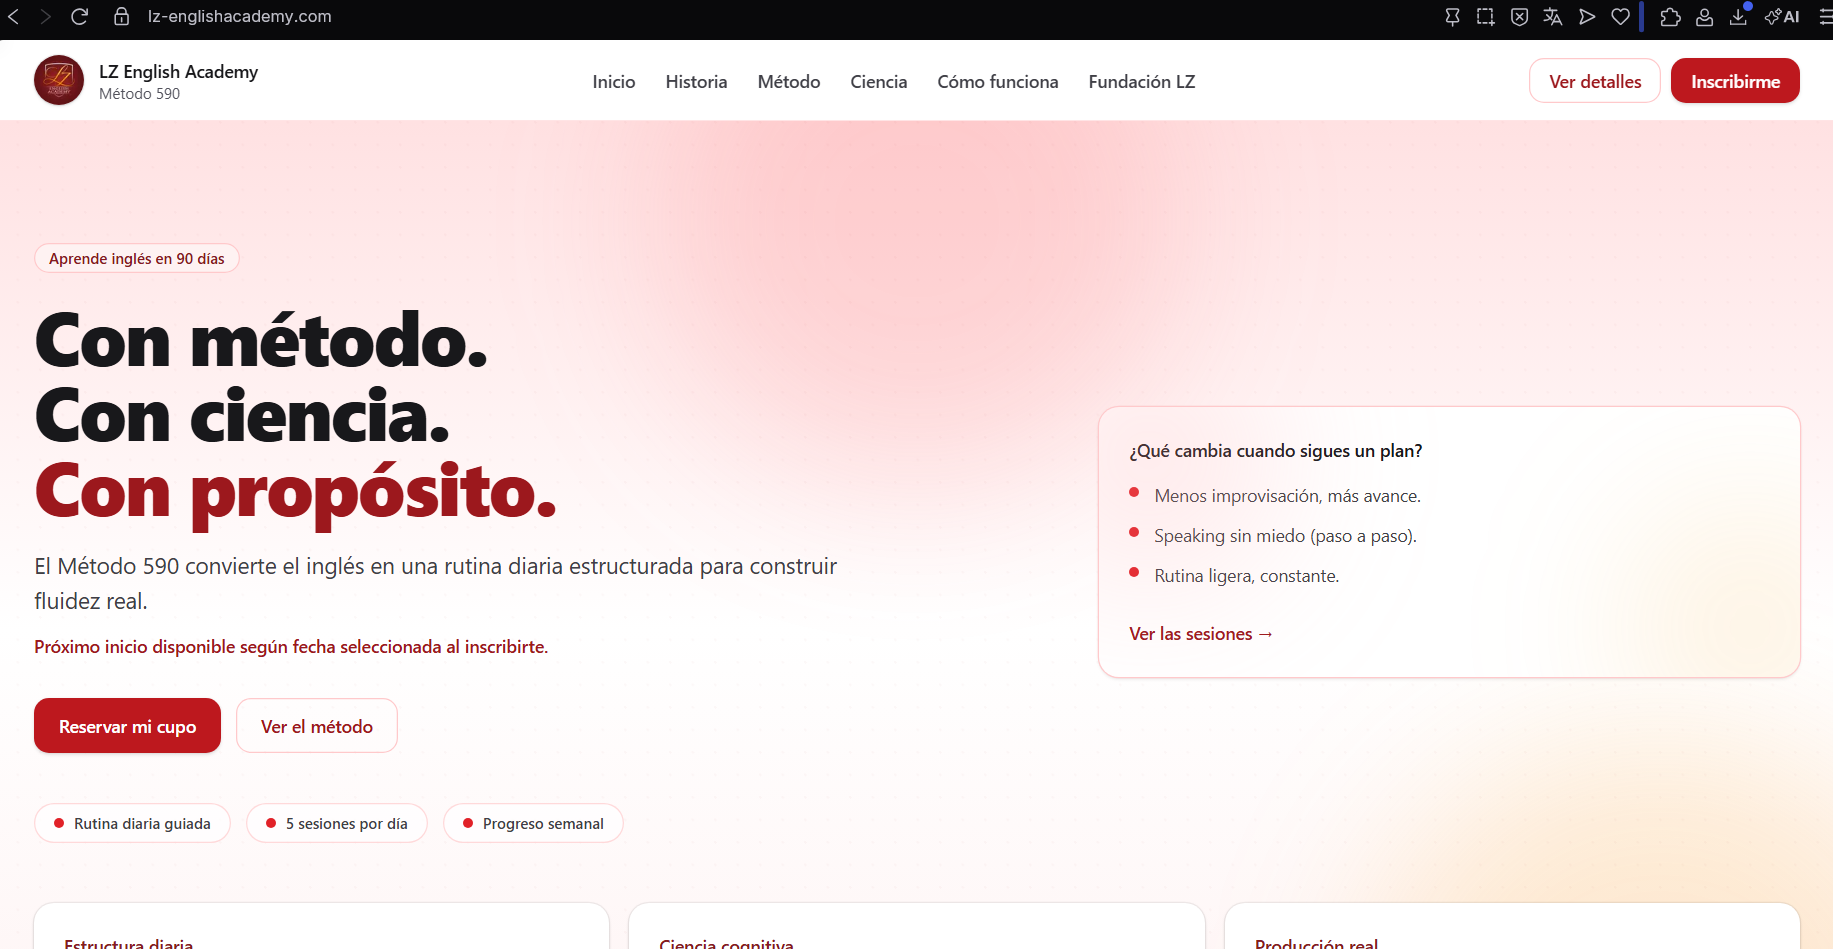
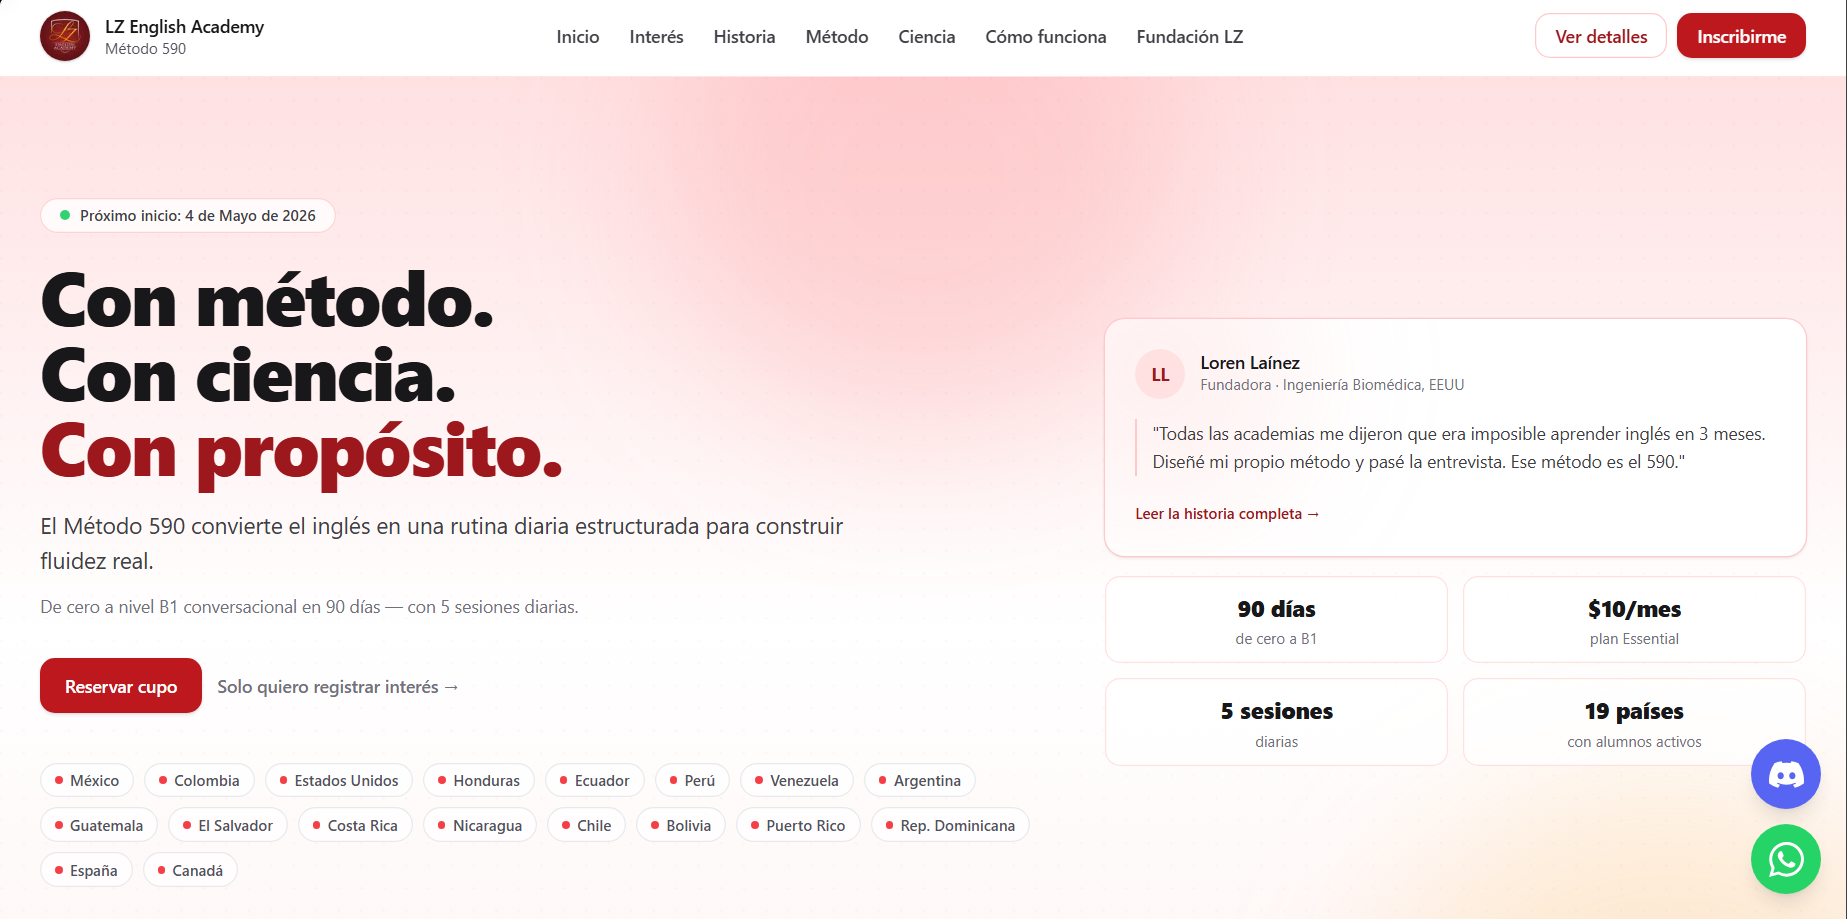
new proyects and basic SEO

diff --git a/src/pages/projects.jsx b/src/pages/projects.jsx
@@ -3,43 +3,31 @@ import { useAppContext } from "../context/AppContext";
 const projects = [
   {
     title: {
-      en: "MovelyQ: Logistics & Asset Rental Ecosystem",
-      es: "MovelyQ: Ecosistema de Logística y Alquiler de Activos",
+      en: "Splitwo: Expense Splitting Web App",
+      es: "Splitwo: Aplicación Web para Dividir Gastos",
     },
     description: {
-      en: "Developed a specialized rental platform focusing on SEO optimization and landing page lead generation. Engineered a high-performance architecture for pre-launch registration, ensuring scalable data handling for future market entry.",
-      es: "Desarrollé una plataforma de alquiler especializada enfocada en la optimización SEO y generación de leads. Diseñé una arquitectura de alto rendimiento para el registro de pre-lanzamiento, asegurando un manejo de datos escalable.",
+      en: "Built the full-stack web application for Splitwo, a platform that simplifies shared expense management between groups. Focused on real-time balance tracking, intuitive UX flows, and secure transaction handling to streamline how people split bills and settle debts.",
+      es: "Desarrollé la aplicación web full-stack de Splitwo, una plataforma que simplifica la gestión de gastos compartidos entre grupos. Me enfoqué en el seguimiento de balances en tiempo real, flujos de UX intuitivos y manejo seguro de transacciones para facilitar cómo las personas dividen cuentas y saldan deudas.",
     },
     year: "2026",
-    image: "/projects/movelyq.png",
-    link: "https://pre-register.movelyq.com",
+    image: "/projects/splitwo_app.png",
+    link: "https://app.splitwo.com",
+    tech: ["React", "Node.js", "PostgreSQL", "Tailwind CSS", "Stripe"],
   },
   {
     title: {
-      en: "FynQ: FinTech Asset & Investment Management",
-      es: "FynQ: Gestión de Activos Financieros e Inversiones",
+      en: "Splitwo: Landing Page & Marketing Website",
+      es: "Splitwo: Landing Page y Sitio Web de Marketing",
     },
     description: {
-      en: "Architected a digital finance ecosystem focused on secure asset tracking and real-time data visualization. Implemented a mobile-first approach with optimized API communication to ensure financial data integrity and backend stability.",
-      es: "Arquitecté un ecosistema financiero digital enfocado en el seguimiento seguro de activos y visualización de datos en tiempo real. Implementé un enfoque mobile-first con comunicación API optimizada para asegurar la integridad de los datos.",
+      en: "Designed and developed the marketing website for Splitwo, focused on conversion optimization and clear product communication. Built with performance and SEO best practices to drive user acquisition and effectively present the app's value proposition.",
+      es: "Diseñé y desarrollé el sitio web de marketing de Splitwo, enfocado en la optimización de conversiones y comunicación clara del producto. Construido con mejores prácticas de rendimiento y SEO para impulsar la adquisición de usuarios y presentar efectivamente la propuesta de valor.",
     },
     year: "2026",
-    image: "/projects/fynq_app.png",
-    link: "https://fynq.site",
-  },
-
-  {
-    title: {
-      en: "Bytam Design: Custom Embroidery E-commerce & Catalog",
-      es: "Bytam Design: E-commerce de Bordados Personalizados",
-    },
-    description: {
-      en: "Engineered a digital storefront for specialized embroidery services. Focused on high-fidelity image rendering via Cloudinary and a seamless user interface for garment personalization, integrating efficient file management for custom design orders.",
-      es: "Desarrollé una tienda digital para servicios de bordado especializados. Me enfoqué en el renderizado de imágenes de alta fidelidad vía Cloudinary y una interfaz fluida para la personalización de prendas y gestión de archivos de diseño.",
-    },
-    year: "2026",
-    image: "/projects/bytam.png",
-    link: "https://bytam-design.netlify.app",
+    image: "/projects/splitwo_web.png",
+    link: "https://splitwo.com",
+    tech: ["Next.js", "Tailwind CSS", "SEO"],
   },
   {
     title: {
@@ -53,6 +41,7 @@ const projects = [
     year: "2026",
     image: "/projects/lzacademy.png",
     link: "https://lz-englishacademy.com",
+    tech: ["React", "Node.js", "Stripe", "REST API"],
   },
   {
     title: {
@@ -66,6 +55,49 @@ const projects = [
     year: "2026",
     image: "/projects/olanchito.png",
     link: "https://olanchito.com",
+    tech: ["React", "Node.js", "SQL", "Stripe", "SEO"],
+  },
+  {
+    title: {
+      en: "MovelyQ: Logistics & Asset Rental Ecosystem",
+      es: "MovelyQ: Ecosistema de Logística y Alquiler de Activos",
+    },
+    description: {
+      en: "Developed a specialized rental platform focusing on SEO optimization and landing page lead generation. Engineered a high-performance architecture for pre-launch registration, ensuring scalable data handling for future market entry.",
+      es: "Desarrollé una plataforma de alquiler especializada enfocada en la optimización SEO y generación de leads. Diseñé una arquitectura de alto rendimiento para el registro de pre-lanzamiento, asegurando un manejo de datos escalable.",
+    },
+    year: "2026",
+    image: "/projects/movelyq.png",
+    link: "https://pre-register.movelyq.com",
+    tech: ["Next.js", "Tailwind CSS", "SEO", "Node.js"],
+  },
+  {
+    title: {
+      en: "FynQ: FinTech Asset & Investment Management",
+      es: "FynQ: Gestión de Activos Financieros e Inversiones",
+    },
+    description: {
+      en: "Architected a digital finance ecosystem focused on secure asset tracking and real-time data visualization. Implemented a mobile-first approach with optimized API communication to ensure financial data integrity and backend stability.",
+      es: "Arquitecté un ecosistema financiero digital enfocado en el seguimiento seguro de activos y visualización de datos en tiempo real. Implementé un enfoque mobile-first con comunicación API optimizada para asegurar la integridad de los datos.",
+    },
+    year: "2026",
+    image: "/projects/fynq_app.png",
+    link: "https://fynq.site",
+    tech: ["React Native", "Node.js", "REST API", "PostgreSQL", "Stripe"],
+  },
+  {
+    title: {
+      en: "Bytam Design: Custom Embroidery E-commerce & Catalog",
+      es: "Bytam Design: E-commerce de Bordados Personalizados",
+    },
+    description: {
+      en: "Engineered a digital storefront for specialized embroidery services. Focused on high-fidelity image rendering via Cloudinary and a seamless user interface for garment personalization, integrating efficient file management for custom design orders.",
+      es: "Desarrollé una tienda digital para servicios de bordado especializados. Me enfoqué en el renderizado de imágenes de alta fidelidad vía Cloudinary y una interfaz fluida para la personalización de prendas y gestión de archivos de diseño.",
+    },
+    year: "2026",
+    image: "/projects/bytam.png",
+    link: "https://bytam-design.netlify.app",
+    tech: ["React", "Node.js", "Cloudinary"],
   },
   {
     title: {
@@ -79,6 +111,7 @@ const projects = [
     year: "2025",
     image: "/projects/vennq_platform.png",
     link: "https://vennq.com",
+    tech: ["React", "Node.js", "SQL", "AWS"],
   },
   {
     title: {
@@ -92,6 +125,7 @@ const projects = [
     year: "2025",
     image: "/projects/photography_portfolio.png",
     link: "https://photography.frankyinteriano.com",
+    tech: ["Next.js", "Tailwind CSS", "Cloudinary"],
   },
   {
     title: {
@@ -105,6 +139,7 @@ const projects = [
     year: "2025",
     image: "/projects/fynq_web.png",
     link: "https://fynq.site",
+    tech: ["Next.js", "Tailwind CSS", "SEO"],
   },
   {
     title: {
@@ -118,6 +153,7 @@ const projects = [
     year: "2025",
     image: "/projects/SendInvitation.png",
     link: "https://github.com/rick2303/WeddingRM",
+    tech: ["Python", "Selenium", "Web Scraping", "Automation"],
   },
   {
     title: {
@@ -131,6 +167,7 @@ const projects = [
     year: "2025",
     image: "/projects/automation.png",
     link: "https://github.com/rick2303/InstagramUnfollowAutomation",
+    tech: ["JavaScript", "DOM API", "Web Automation", "Data Extraction"],
   },
   {
     title: {
@@ -144,6 +181,7 @@ const projects = [
     year: "2025",
     image: "/projects/weddingInvitation.png",
     link: "https://github.com/rick2303/WeddingRM",
+    tech: ["React", "Node.js", "SQL"],
   },
   {
     title: {
@@ -157,6 +195,7 @@ const projects = [
     year: "2023",
     image: "/projects/unah.jpeg",
     link: "https://github.com/rick2303/RegistroUNAH",
+    tech: ["Java", "SQL", "MySQL"],
   },
   {
     title: {
@@ -170,6 +209,7 @@ const projects = [
     year: "2023",
     image: "/projects/cpm.png",
     link: "https://github.com/rick2303/CPM_LATAM",
+    tech: ["JavaScript", "React"],
   },
 ];
 

diff --git a/index.html b/index.html
@@ -1,27 +1,66 @@
 <!doctype html>
-<html lang="es">
+<html lang="en">
 
 <head>
   <meta charset="UTF-8" />
   <link rel="icon" type="image/png" href="icon2.png" />
   <meta name="viewport" content="width=device-width, initial-scale=1.0" />
 
-  <title>Franky Interiano | Application Support Engineer & SQL Specialist</title>
+  <title>Franky Interiano | Application Support Engineer & Full Stack Developer</title>
 
   <meta name="description"
-    content="Ingeniero de Soporte de Aplicaciones con experiencia en sistemas bancarios, SQL, y resolución de incidentes críticos. Explora mi portafolio de proyectos y experiencia técnica." />
+    content="Application Support Engineer and Full Stack Developer with experience in banking systems, SQL, cloud platforms, and building scalable web applications. Explore my portfolio of projects and technical experience." />
 
+  <link rel="canonical" href="https://frankyinteriano.com/" />
+
+  <!-- Open Graph -->
   <meta property="og:type" content="website" />
   <meta property="og:url" content="https://frankyinteriano.com/" />
-  <meta property="og:title" content="Franky Interiano | Portafolio Profesional" />
+  <meta property="og:title" content="Franky Interiano | Application Support Engineer & Full Stack Developer" />
   <meta property="og:description"
-    content="Especialista en soporte técnico L2/L3, automatización con Python y gestión de bases de datos." />
+    content="Application Support Engineer and Full Stack Developer with experience in banking systems, SQL, cloud platforms, and building scalable web applications." />
   <meta property="og:image" content="https://frankyinteriano.com/profile2.jpeg" />
-  <meta property="twitter:card" content="summary_large_image" />
-  <meta property="twitter:title" content="Franky Interiano | Support Engineer" />
-  <meta property="twitter:description" content="Resolución de incidentes y optimización de sistemas de producción." />
+  <meta property="og:locale" content="en_US" />
+  <meta property="og:site_name" content="Franky Interiano Portfolio" />
+
+  <!-- Twitter Card -->
+  <meta name="twitter:card" content="summary_large_image" />
+  <meta name="twitter:title" content="Franky Interiano | Application Support Engineer & Full Stack Developer" />
+  <meta name="twitter:description" content="Application Support Engineer and Full Stack Developer specializing in banking systems, SQL optimization, and scalable web applications." />
+  <meta name="twitter:image" content="https://frankyinteriano.com/profile2.jpeg" />
+
+  <!-- Extra SEO -->
+  <meta name="author" content="Franky Interiano" />
+  <meta name="robots" content="index, follow" />
+  <meta name="keywords" content="Franky Interiano, Application Support Engineer, Full Stack Developer, SQL, Python, React, Node.js, banking systems, Honduras" />
+
+  <!-- JSON-LD Structured Data -->
+  <script type="application/ld+json">
+  {
+    "@context": "https://schema.org",
+    "@type": "Person",
+    "name": "Franky Interiano",
+    "url": "https://frankyinteriano.com",
+    "image": "https://frankyinteriano.com/profile2.jpeg",
+    "jobTitle": "Application Support Engineer & Full Stack Developer",
+    "sameAs": [
+      "https://github.com/rick2303",
+      "https://www.linkedin.com/in/frankyinteriano"
+    ],
+    "knowsAbout": ["SQL", "Python", "React", "Node.js", "Banking Systems", "Cloud Platforms", "Application Support"]
+  }
+  </script>
 
   <link rel="stylesheet" href="https://cdnjs.cloudflare.com/ajax/libs/font-awesome/6.5.0/css/all.min.css" />
+
+  <!-- Google tag (gtag.js) -->
+  <script async src="https://www.googletagmanager.com/gtag/js?id=G-YM2W4M0LRN"></script>
+  <script>
+    window.dataLayer = window.dataLayer || [];
+    function gtag(){dataLayer.push(arguments);}
+    gtag('js', new Date());
+    gtag('config', 'G-YM2W4M0LRN');
+  </script>
 </head>
 
 <body>

diff --git a/src/pages/experience.jsx b/src/pages/experience.jsx
@@ -18,13 +18,13 @@ const experiences = [
     ],
     details: {
       en: [
-        "**Production Apps:** Built production-ready web applications (fynq.site, qali-t.com, olanchito.com, lz-englishacademy.com, vennq.com, pre-register.movelyq.com) using React.js, Next.js, TypeScript, and Tailwind CSS.",
+        "**Production Apps:** Built production-ready web applications (splitwo.com, app.splitwo.com, fynq.site, qali-t.com, olanchito.com, lz-englishacademy.com, vennq.com, pre-register.movelyq.com) using React.js, Next.js, TypeScript, and Tailwind CSS.",
         "**Front-end Architecture:** Designed scalable front-end structures and implemented backend logic with SQL-based data models.",
         "**Third-party Integrations:** Integrated identity verification workflows (Didit) ensuring secure and reliable user flows.",
         "**Cross-functional Collaboration:** Translated business requirements into technical solutions working closely with stakeholders.",
       ],
       es: [
-        "**Apps en Producción:** Desarrollé aplicaciones web listas para producción (fynq.site, qali-t.com, olanchito.com, lz-englishacademy.com, vennq.com, pre-register.movelyq.com) con React.js, Next.js, TypeScript y Tailwind CSS.",
+        "**Apps en Producción:** Desarrollé aplicaciones web listas para producción (splitwo.com, app.splitwo.com, fynq.site, qali-t.com, olanchito.com, lz-englishacademy.com, vennq.com, pre-register.movelyq.com) con React.js, Next.js, TypeScript y Tailwind CSS.",
         "**Arquitectura Front-end:** Diseñé estructuras frontend escalables e implementé lógica de backend con modelos de datos SQL.",
         "**Integraciones:** Integré flujos de verificación de identidad (Didit) garantizando procesos de usuario seguros y confiables.",
         "**Colaboración:** Traduje requerimientos de negocio en soluciones técnicas junto a stakeholders y equipos técnicos.",
@@ -144,7 +144,7 @@ function Experience() {
                   {/* Contenido */}
                   <div className="flex-grow pt-2 pl-12 md:pl-0">
                     <div className="flex flex-col gap-1 mb-4">
-                      <span className="text-xs font-mono font-bold text-light-tertiary dark:text-dark-secondary tracking-widest uppercase mb-1">
+                      <span className="text-xs font-mono font-bold text-light-secondary dark:text-dark-secondary tracking-widest uppercase mb-1">
                         {exp.period[language]}
                       </span>
                       <h3 className="text-2xl md:text-3xl font-bold text-dark-tertiary dark:text-white leading-tight">
@@ -154,7 +154,7 @@ function Experience() {
                         href={exp.socials}
                         target="_blank"
                         rel="noopener noreferrer"
-                        className="text-lg font-medium text-dark-secondary/70 dark:text-gray-400 hover:text-light-tertiary dark:hover:text-dark-secondary transition-colors w-fit italic"
+                        className="text-lg font-medium text-dark-secondary/70 dark:text-gray-400 hover:text-light-secondary dark:hover:text-dark-secondary transition-colors w-fit italic"
                       >
                         {exp.company}
                       </a>
@@ -179,7 +179,7 @@ function Experience() {
                           key={index}
                           className="flex gap-3 text-dark-secondary dark:text-gray-200 leading-relaxed text-[15px] md:text-[16px]"
                         >
-                          <span className="text-light-tertiary dark:text-dark-secondary font-bold mt-1">
+                          <span className="text-light-secondary dark:text-dark-secondary font-bold mt-1">
                             •
                           </span>
                           <div className="flex-grow">{renderDetail(item)}</div>

diff --git a/src/components/projectCard.jsx b/src/components/projectCard.jsx
@@ -1,6 +1,6 @@
 import React from "react";
 
-const ProjectCard = ({ title, description, year, image, link, language }) => {
+const ProjectCard = ({ title, description, year, image, link, language, tech }) => {
   return (
     <a
       href={link}
@@ -41,10 +41,22 @@ const ProjectCard = ({ title, description, year, image, link, language }) => {
             <p className="text-dark-secondary/80 dark:text-dark-font/70 text-[15px] leading-relaxed line-clamp-4">
               {description[language]}
             </p>
+            {tech && tech.length > 0 && (
+              <div className="flex flex-wrap gap-2 mt-4">
+                {tech.map((t, i) => (
+                  <span
+                    key={i}
+                    className="px-2 py-1 text-xs font-semibold rounded-md bg-light-secondary/10 dark:bg-dark-secondary/10 text-light-secondary dark:text-dark-secondary border border-light-secondary/20 dark:border-dark-secondary/20"
+                  >
+                    {t}
+                  </span>
+                ))}
+              </div>
+            )}
           </div>
 
           {/* Footer: Más simple y funcional */}
-          <div className="mt-6 pt-4 border-t border-gray-50 dark:border-dark-tertiary/30 flex items-center text-light-tertiary dark:text-dark-secondary font-bold text-sm">
+          <div className="mt-6 pt-4 border-t border-gray-50 dark:border-dark-tertiary/30 flex items-center text-light-secondary dark:text-dark-secondary font-bold text-sm">
             <span className="group-hover:mr-2 transition-all duration-300">
               {link.includes("github") ? "GitHub Repository" : "Live Demo"}
             </span>

diff --git a/src/pages/references.jsx b/src/pages/references.jsx
@@ -104,7 +104,7 @@ function References() {
             >
               {/* Cuerpo del testimonio - flex-grow para empujar el footer abajo y que midan lo mismo */}
               <div className="flex-grow">
-                <div className="text-light-tertiary dark:text-dark-secondary text-4xl font-serif mb-4">
+                <div className="text-light-secondary dark:text-dark-secondary text-4xl font-serif mb-4">
                   “
                 </div>
                 <blockquote className="text-[16px] leading-relaxed text-dark-secondary/80 dark:text-dark-font/80 italic mb-8">
@@ -134,7 +134,7 @@ function References() {
                   <h4 className="font-bold text-dark-tertiary dark:text-dark-font_primary truncate text-base">
                     {ref.name}
                   </h4>
-                  <p className="text-[10px] uppercase tracking-wider font-bold text-light-tertiary dark:text-dark-secondary leading-tight mt-1 line-clamp-2">
+                  <p className="text-[10px] uppercase tracking-wider font-bold text-light-secondary dark:text-dark-secondary leading-tight mt-1 line-clamp-2">
                     {ref.position}
                   </p>
                 </div>

diff --git a/src/components/skills.jsx b/src/components/skills.jsx
@@ -7,12 +7,14 @@ const skills = [
     img: "/logos/sql.png",
     category: "support",
   },
+  { name: "PL/SQL", img: "/logos/plsql.png", category: "support" },
   { name: "AWS (Cloud Support)", img: "/logos/aws.png", category: "support" },
   { name: "Jira / Trello", img: "/logos/jira.png", category: "support" },
   { name: "Postman", img: "/logos/postman.png", category: "support" },
   { name: "Power BI", img: "/logos/powerbi.png", category: "support" },
 
   // --- BACKEND & LOGIC ---
+  { name: "Python", img: "/logos/python.png", category: "backend" },
   { name: "Java", img: "/logos/java.png", category: "backend" },
   { name: "Node.js / NestJS", img: "/logos/nodeJS.png", category: "backend" },
   { name: "TypeScript", img: "/logos/typescript.png", category: "backend" },
@@ -23,7 +25,8 @@ const skills = [
   { name: "Agile", img: "/logos/agile.png", category: "infra" },
 
   // --- FRONTEND ---
-  { name: "React / Tailwind", img: "/logos/react.png", category: "frontend" },
+  { name: "React / Next.js", img: "/logos/react.png", category: "frontend" },
+  { name: "Tailwind CSS", img: "/logos/tailwind.png", category: "frontend" },
 ];
 
 const categories = [
